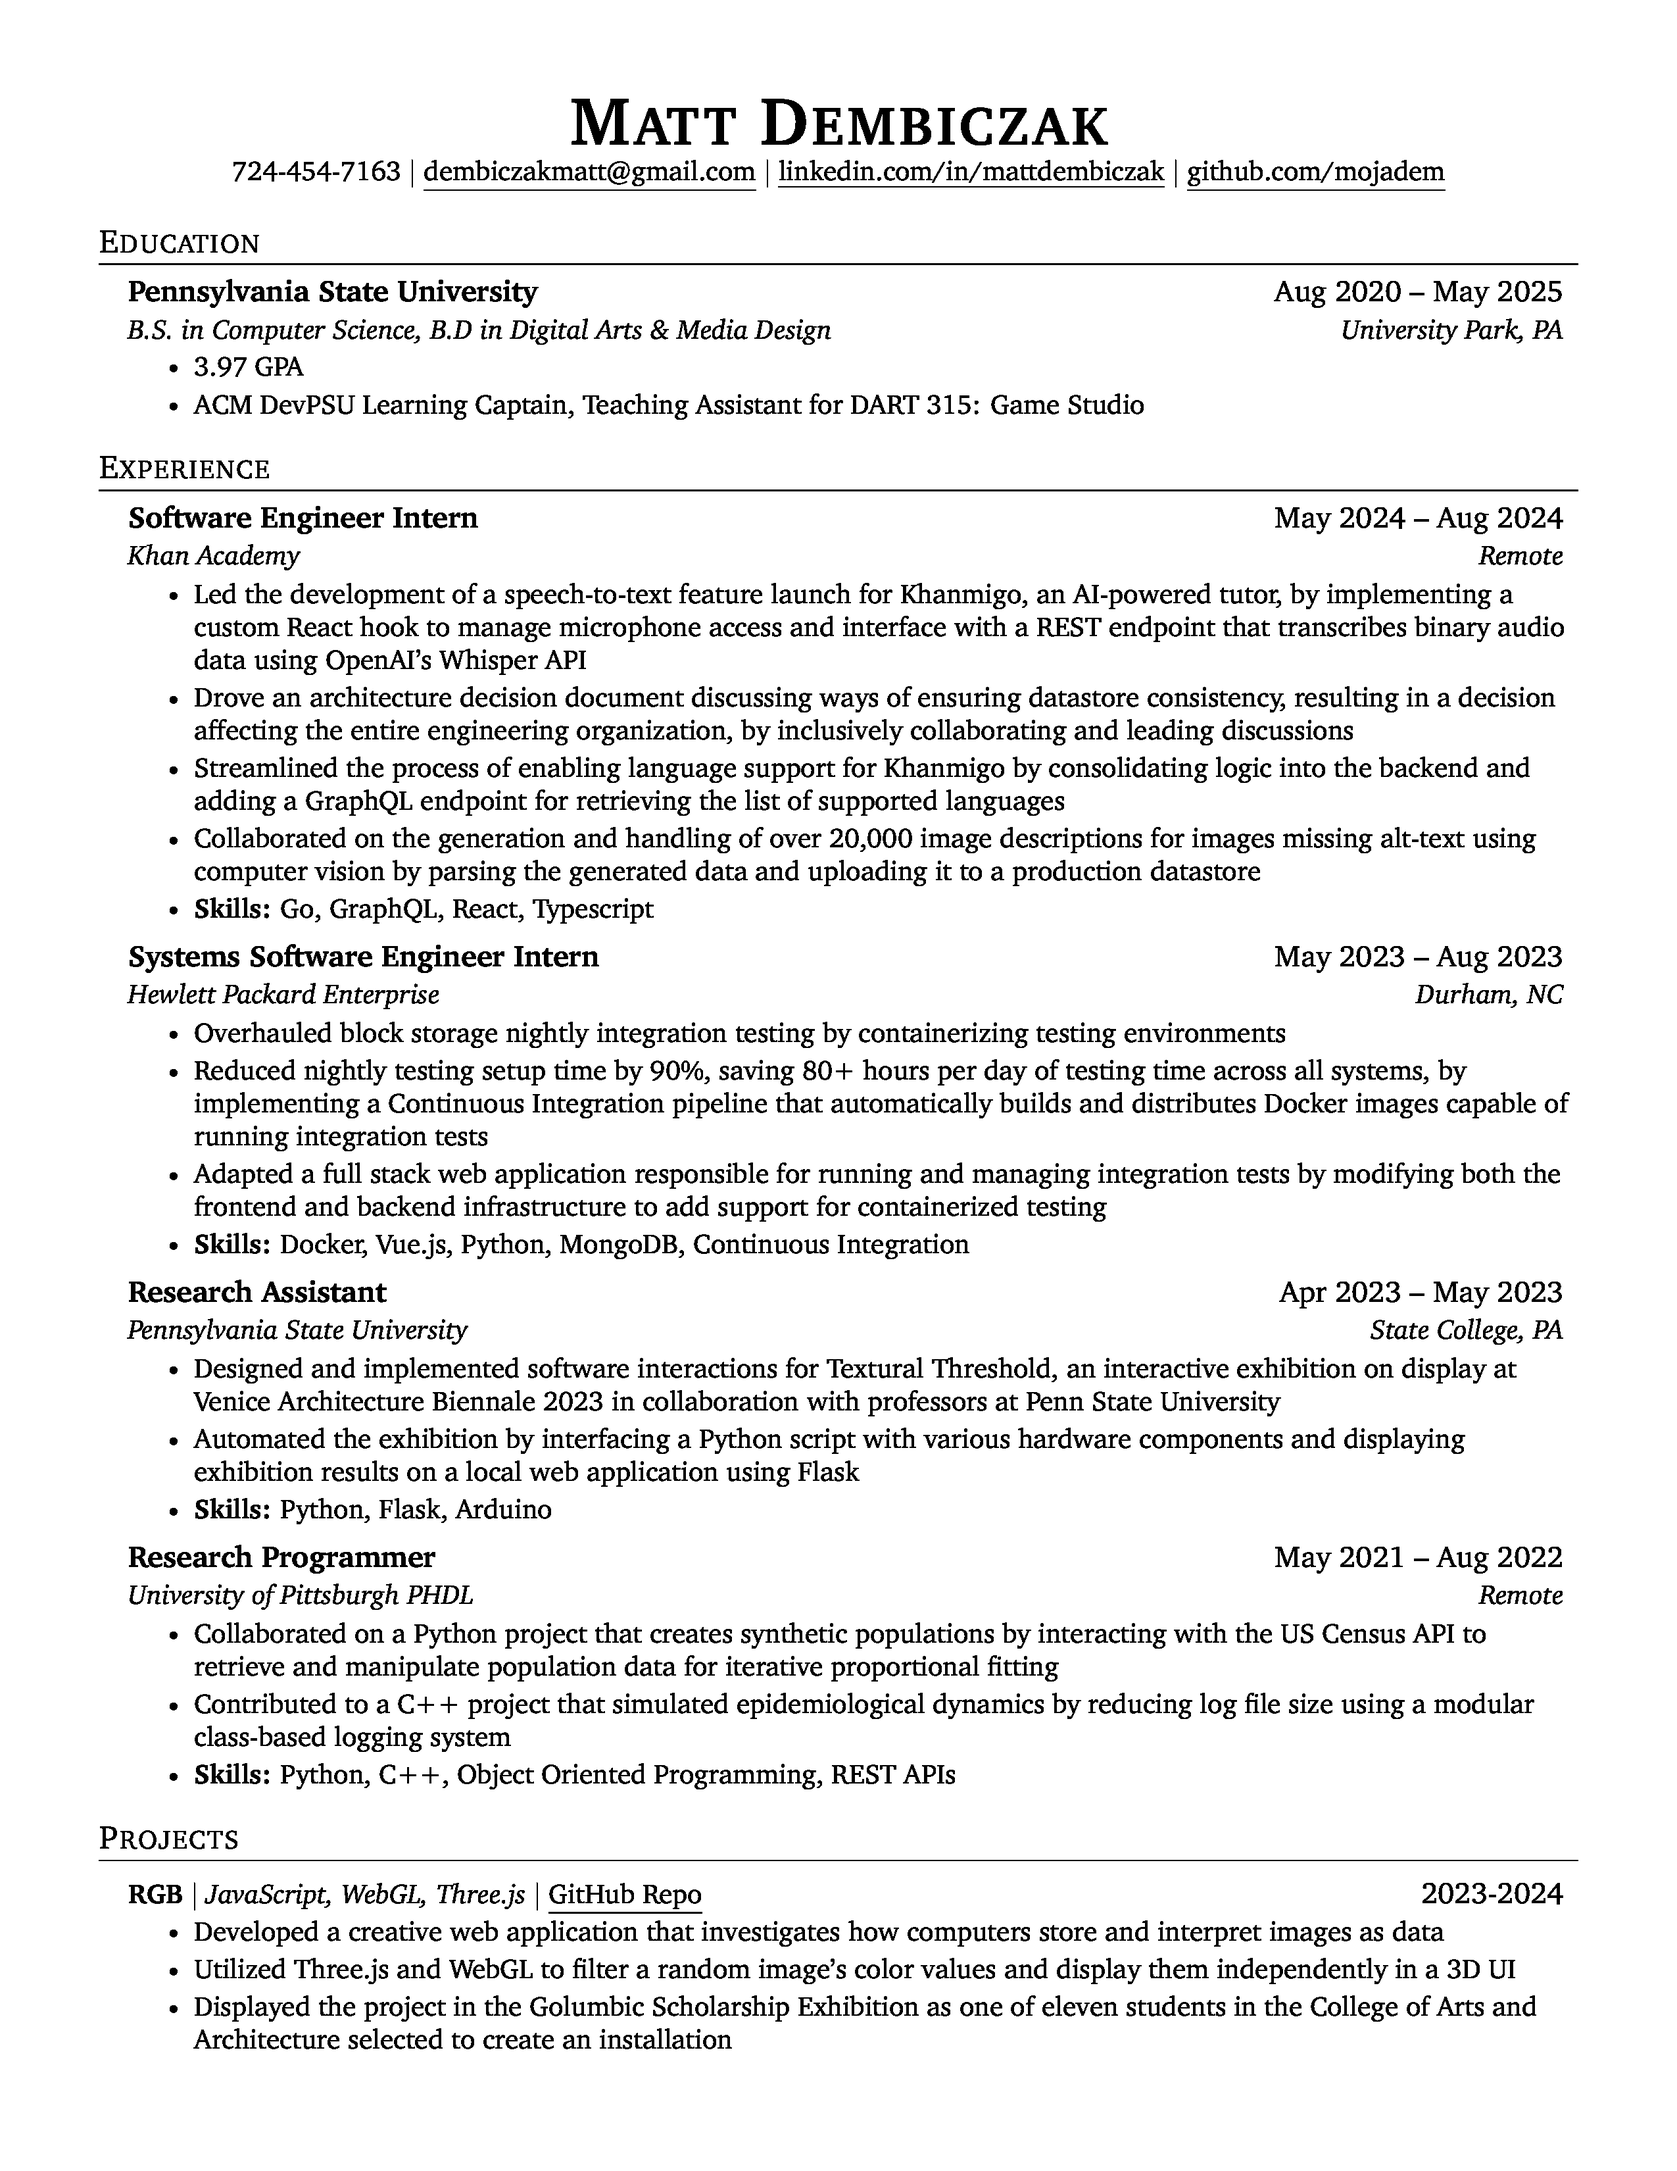
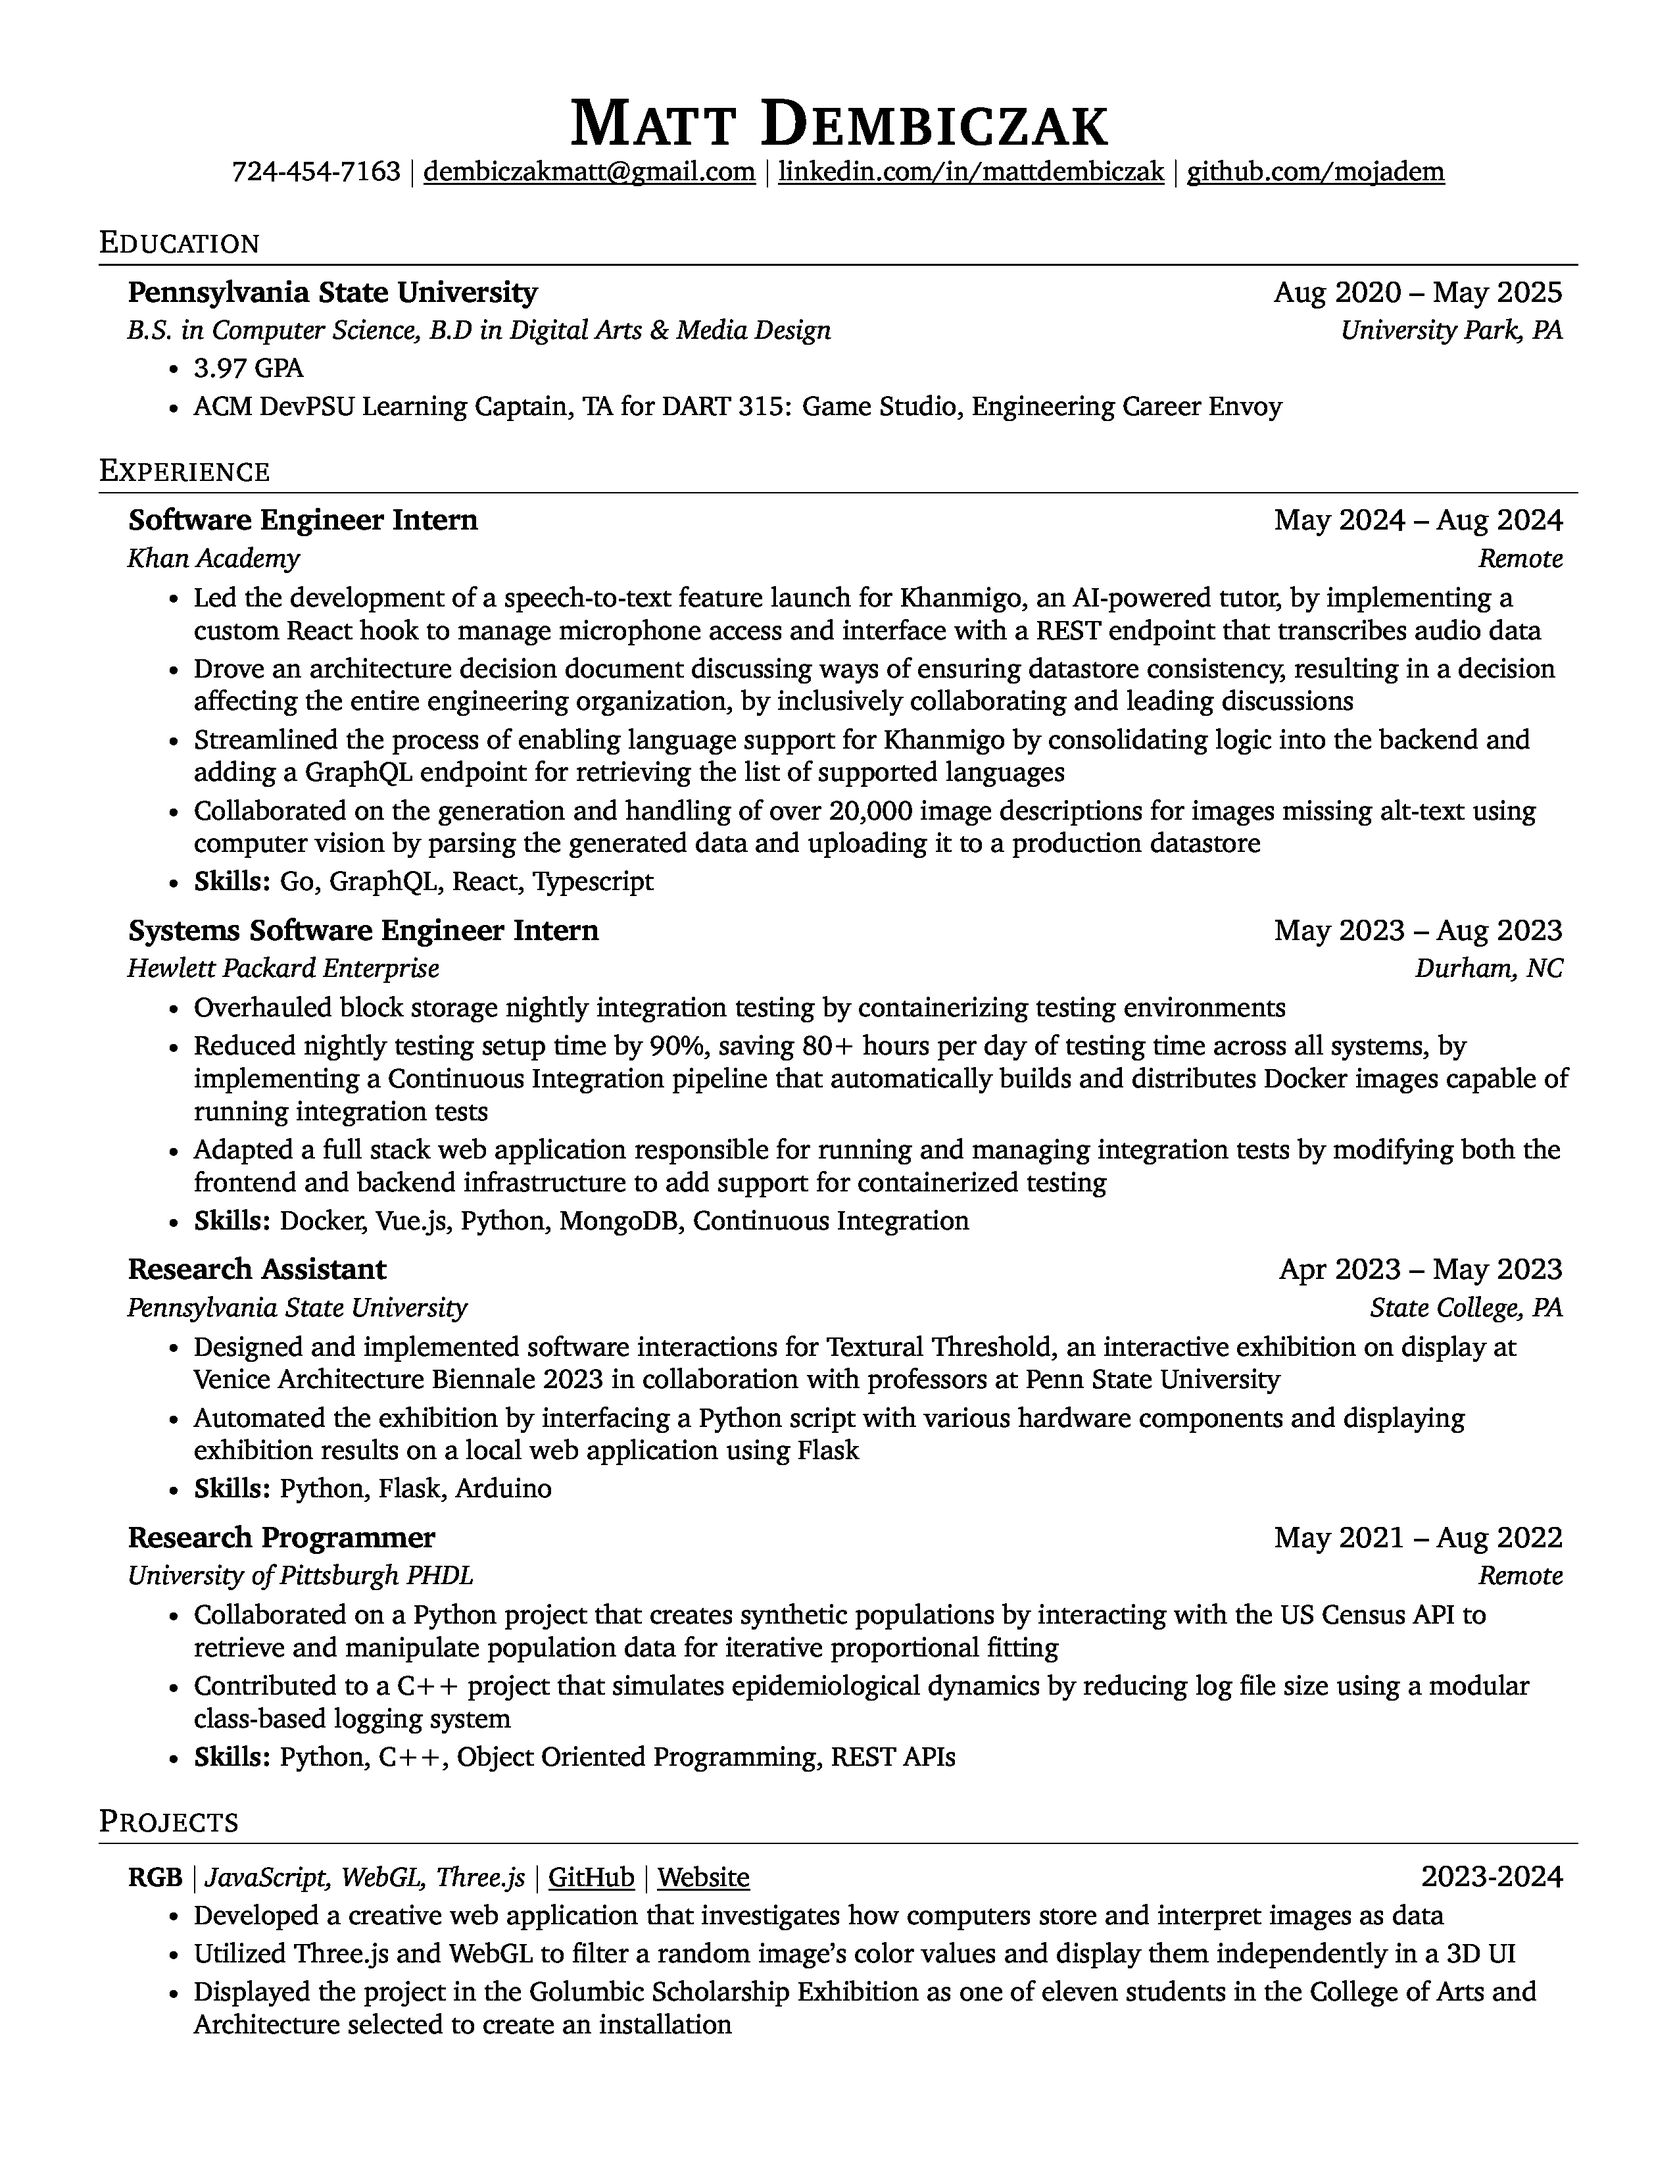
update resume

Changed region(s): [[0.062, 0.2185, 0.9294, 0.9676], [0.7745, 0.2185, 0.8365, 0.2497]]

diff --git a/src/resume.tex b/src/resume.tex
@@ -92,6 +92,8 @@
 \newcommand{\resumeItemListStart}{\begin{itemize}}
 \newcommand{\resumeItemListEnd}{\end{itemize}\vspace{-5pt}}
 
+\newcommand{\link}[2]{\href{#1}{\underline{\smash{#2}}}}
+
 %-------------------------------------------
 %%%%%%  RESUME STARTS HERE  %%%%%%%%%%%%%%%%%%%%%%%%%%%%
 
@@ -106,9 +108,10 @@
 
 \begin{center}
     \textbf{\Huge \scshape Matt Dembiczak} \\ \vspace{1pt}
-    \small 724-454-7163 $|$ \href{mailto:dembiczakmatt@gmail.com}{\underline{dembiczakmatt@gmail.com}} $|$
-    \href{https://linkedin.com/in/mattdembiczak}{\underline{linkedin.com/in/mattdembiczak}} $|$
-    \href{https://github.com/mojadem}{\underline{github.com/mojadem}}
+    \small 724-454-7163 $|$
+    \link{mailto:dembiczakmatt@gmail.com}{dembiczakmatt@gmail.com} $|$
+    \link{https://linkedin.com/in/mattdembiczak}{linkedin.com/in/mattdembiczak} $|$
+    \link{https://github.com/mojadem}{github.com/mojadem}
 \end{center}
 
 
@@ -120,7 +123,7 @@
       {B.S. in Computer Science, B.D in Digital Arts \& Media Design}{University Park, PA}
       \resumeItemListStart
         \resumeItem{3.97 GPA}
-        \resumeItem{ACM DevPSU Learning Captain, Teaching Assistant for DART 315: Game Studio}
+        \resumeItem{ACM DevPSU Learning Captain, TA for DART 315: Game Studio, Engineering Career Envoy}
       \resumeItemListEnd
   \resumeSubHeadingListEnd
 
@@ -133,7 +136,7 @@
       {Software Engineer Intern}{May 2024 -- Aug 2024}
       {Khan Academy}{Remote}
       \resumeItemListStart
-        \resumeItem{Led the development of a speech-to-text feature launch for Khanmigo, an AI-powered tutor, by implementing a custom React hook to manage microphone access and interface with a REST endpoint that transcribes binary audio data using OpenAI's Whisper API}
+        \resumeItem{Led the development of a speech-to-text feature launch for Khanmigo, an AI-powered tutor, by implementing a custom React hook to manage microphone access and interface with a REST endpoint that transcribes audio data}
         \resumeItem{Drove an architecture decision document discussing ways of ensuring datastore consistency, resulting in a decision affecting the entire engineering organization, by inclusively collaborating and leading discussions}
         \resumeItem{Streamlined the process of enabling language support for Khanmigo by consolidating logic into the backend and adding a GraphQL endpoint for retrieving the list of supported languages}
         \resumeItem{Collaborated on the generation and handling of over 20,000 image descriptions for images missing alt-text using computer vision by parsing the generated data and uploading it to a production datastore}
@@ -174,7 +177,7 @@
       {University of Pittsburgh PHDL}{Remote}
       \resumeItemListStart
         \resumeItem{Collaborated on a Python project that creates synthetic populations by interacting with the US Census API to retrieve and manipulate population data for iterative proportional fitting}
-        \resumeItem{Contributed to a C++ project that simulated epidemiological dynamics by reducing log file size using a modular class-based logging system}
+        \resumeItem{Contributed to a C++ project that simulates epidemiological dynamics by reducing log file size using a modular class-based logging system}
         \resumeItem{{\bf Skills:} Python, C++, Object Oriented Programming, REST APIs}
       \resumeItemListEnd
 
@@ -185,7 +188,10 @@
 \section{Projects}
     \resumeSubHeadingListStart
       \resumeProjectHeading
-          {\textbf{RGB} $|$ \emph{JavaScript, WebGL, Three.js} $|$ \href{https://github.com/mojadem/rgb}{\underline{GitHub Repo}}}{2023-2024}
+          {\textbf{RGB} $|$ \emph{JavaScript, WebGL, Three.js} $|$
+          \link{https://github.com/mojadem/rgb}{GitHub} $|$
+          \link{https://rgb-mojadem.vercel.app}{Website}}
+          {2023-2024}
           \resumeItemListStart
             \resumeItem{Developed a creative web application that investigates how computers store and interpret images as data}
             \resumeItem{Utilized Three.js and WebGL to filter a random image's color values and display them independently in a 3D UI}
